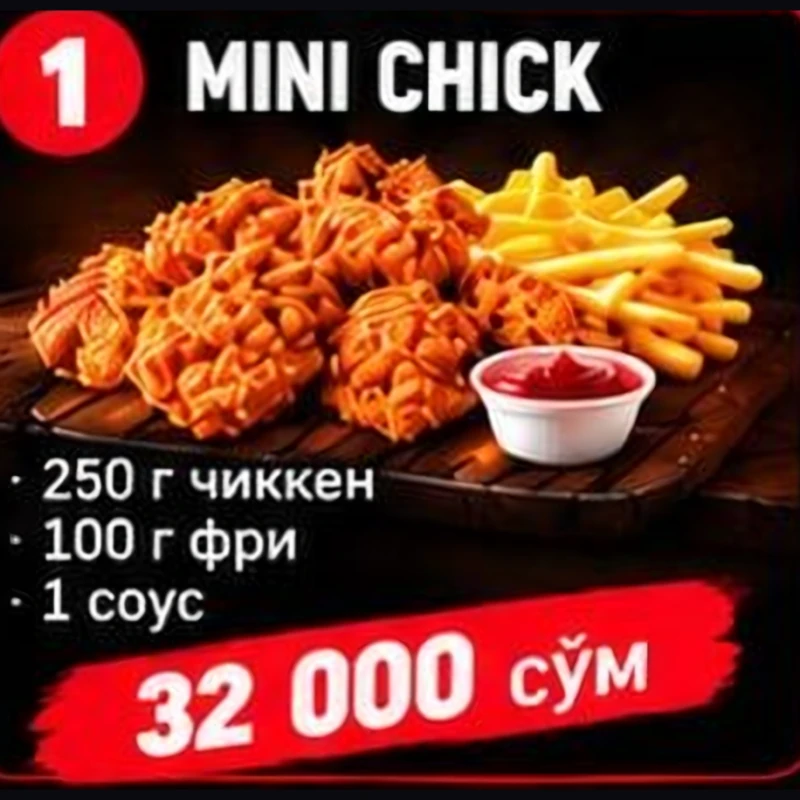
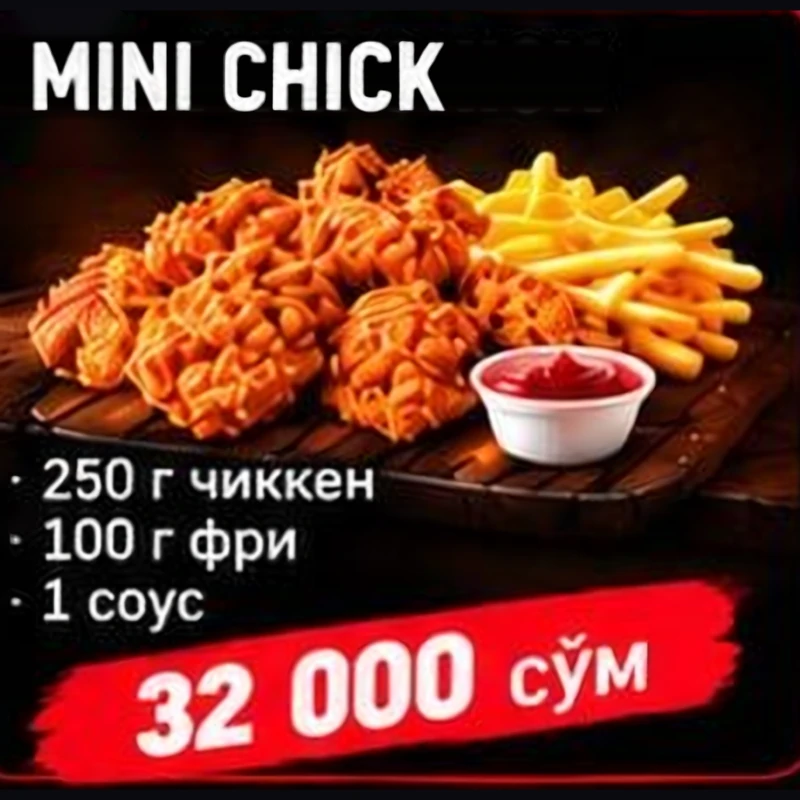
Kombo rasmlari yangilandi (raqamsiz); rasm URL'larida ?v= kesh versiyasi
- burger/chicken/oila/pitsa_kombo: 15 ta rasm yangi nusxasi (fayl nomlari o'sha)
- app.js: lokal rasm URL'lariga ?v=ASSET_VERSION (rasmlar 1 kun keshlanadi - yangisi darhol yetadi)
- Mini App ?v=19; test: ASSET_VERSION index.html dagi ?v= bilan bir xil

Changed region(s): [[0.0, 0.0, 0.75, 0.2188]]

diff --git a/miniapp/app.js b/miniapp/app.js
@@ -8,6 +8,9 @@
 (() => {
   // ---------------------------------------------------------------- sozlamalar
   const MENU_URL = 'menu.json';
+  // Rasm URL'lariga ?v= qo'shiladi: _headers'da rasmlar 1 kun keshlanadi, shuning uchun rasm fayli nomini
+  // o'zgartirmasdan almashtirilsa - shu raqamni (va index.html dagi ?v= ni, ikkalasi bir xil) oshiring.
+  const ASSET_VERSION = '19';
   const LIMITS = {
     nameMin: 2,
     nameMax: 50,
@@ -985,6 +988,12 @@
 
   /** Rasm + fallback: yuklanguncha gradient, 2 marta qayta urinishdan keyin ham bo'lmasa emoji. */
   // Kategoriya rasmlari 800x600 (4:3), taom rasmlari 600x600 (1:1)
+  /** Lokal rasm yo'liga ?v=ASSET_VERSION (tashqi https:// yoki allaqachon ?li manzilga tegmaydi). */
+  function versioned(src) {
+    if (/^[a-z]+:/i.test(src) || src.includes('?')) return src;
+    return `${src}?v=${ASSET_VERSION}`;
+  }
+
   function media(src, emoji, alt, extraClass, width, height) {
     const wrap = h('div', { class: 'media ' + (extraClass || '') },
       h('span', { class: 'media-fallback', 'aria-hidden': 'true' }, emoji || '🍽'));
@@ -992,6 +1001,7 @@
       wrap.classList.add('failed');
       return wrap;
     }
+    src = versioned(src);
     const img = h('img', { src, alt, loading: 'lazy', decoding: 'async', width: width || 800, height: height || 600 });
     let attempt = 0;
     img.addEventListener('load', () => wrap.classList.add('loaded'));

diff --git a/miniapp/index.html b/miniapp/index.html
@@ -15,12 +15,12 @@
   <!-- Telegram WebApp SDK boshqa skriptlardan oldin yuklanishi kerak -->
   <script src="https://telegram.org/js/telegram-web-app.js"></script>
   <!-- ?v=N: Telegram eski keshni ko'rsatmasligi uchun; har o'zgarishda raqamni oshiring -->
-  <link rel="stylesheet" href="style.css?v=18">
+  <link rel="stylesheet" href="style.css?v=19">
   <!-- Interfeys matnlari (uz/ru) va bot natijasini qo'llash - app.js dan oldin -->
-  <script src="i18n.js?v=18" defer></script>
-  <script src="config.js?v=18" defer></script>
-  <script src="result.js?v=18" defer></script>
-  <script src="app.js?v=18" defer></script>
+  <script src="i18n.js?v=19" defer></script>
+  <script src="config.js?v=19" defer></script>
+  <script src="result.js?v=19" defer></script>
+  <script src="app.js?v=19" defer></script>
 </head>
 <body>
   <div id="app" class="app">

diff --git a/bot/tests/test_miniapp_result.py b/bot/tests/test_miniapp_result.py
@@ -357,6 +357,18 @@ def test_scripts_loaded_in_order_with_same_version():
     assert len(versions) == 1 and int(versions.pop()) >= 15
 
 
+
+def test_image_urls_versioned_like_index():
+    """Rasmlar 1 kun keshlanadi (_headers) - rasm URL'iga index.html dagi bilan bir xil ?v= qo'shiladi."""
+    html = (MINIAPP / "index.html").read_text(encoding="utf-8")
+    code = (MINIAPP / "app.js").read_text(encoding="utf-8")
+    (version,) = set(re.findall(r'\?v=(\d+)', html))
+    assert re.search(r"const ASSET_VERSION = '(\d+)';", code).group(1) == version
+    body = code[code.index("function media("):code.index("function emptyState(")]
+    assert "src = versioned(src);" in body
+    assert code.count("versioned(") == 2  # ta'rif + media() ichida
+
+
 if __name__ == "__main__":
     tests = [(n, f) for n, f in sorted(globals().items()) if n.startswith("test_") and callable(f)]
     failed = 0
